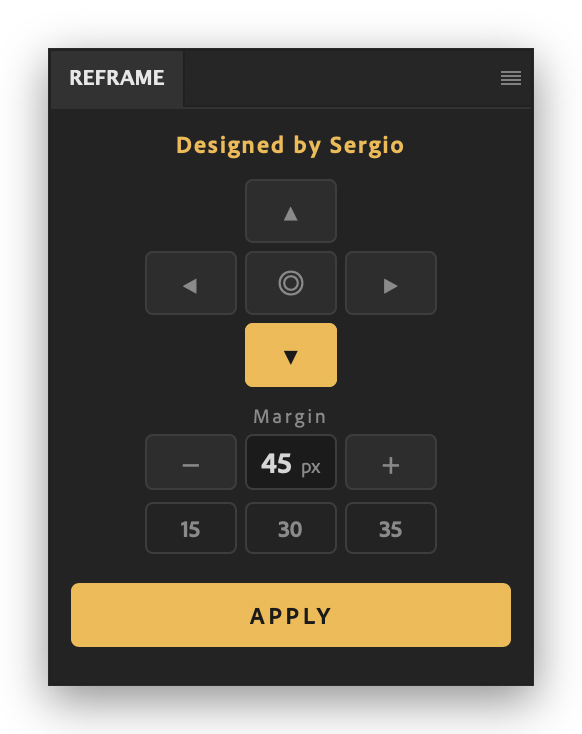
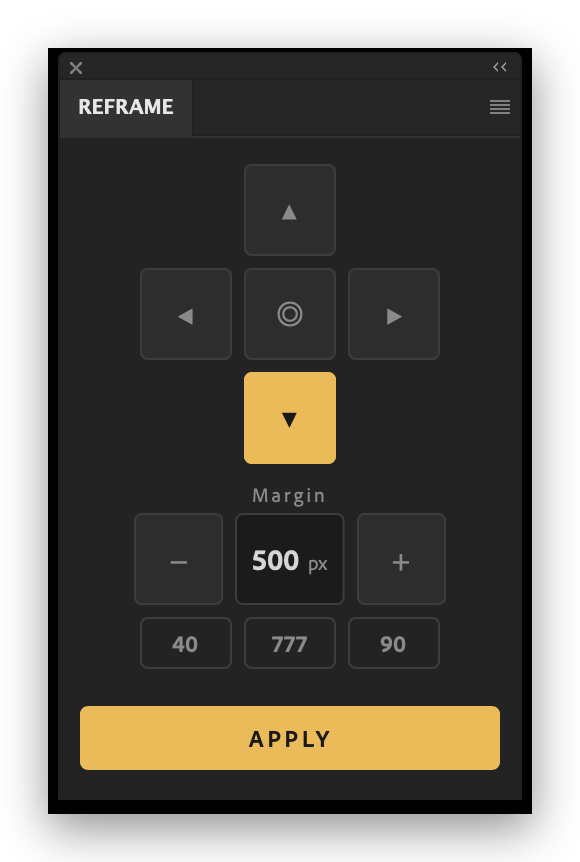
v2.4.0 — the reviewed build
- Dual engine: generated original ExtendScript via AdobeScriptAutomation
  (session-token file ref), native batchPlay fallback
- Fixed-size panel (min=max 230x330): no resize grabber, no scroll
  artifacts, constant geometry
- Stationary layout: Center mode reserves the margin block's space —
  controls never move between modes
- Offscreen input with centered live echo + blinking caret; margin
  clamped 0..99999 on every path (typing, paste, steppers)
- Success is silent; only errors speak (and stay)
- Theme switcher and on-panel signature removed per design review
- New screenshots

diff --git a/index.js b/index.js
@@ -25,6 +25,14 @@
      reorder or delete; persisted in localStorage
    - Tab ring: value field → presets → APPLY; Enter in the field jumps
      focus to APPLY so the next Enter applies
+   New in 2.3.x/2.4.0:
+   - dual engine: generated ExtendScript (the proven original) via
+     AdobeScriptAutomation, native batchPlay as automatic fallback
+   - fixed-size panel (min=max) — no host resize grabber artifacts
+   - stationary layout: Center mode reserves space, nothing teleports
+   - offscreen input with centered live echo + caret (UXP inputs are
+     C++ widgets — text-align is impossible on the real control)
+   - margin clamped 0..99999 on every path; silence on success
    New in 2.2.0:
    - APPLY label centered (the div conversion had lost the free centering)
    - presets are unique (dedupe on save/drop + self-heal stored state)

diff --git a/README.md b/README.md
@@ -8,7 +8,7 @@
 
 <br>
 
-![Version](https://img.shields.io/badge/version-2.3.0-f5b942?style=flat-square)
+![Version](https://img.shields.io/badge/version-2.4.0-f5b942?style=flat-square)
 ![Photoshop](https://img.shields.io/badge/Photoshop-2025%20%7C%202026-2d2d2d?style=flat-square)
 ![Platform](https://img.shields.io/badge/platform-UXP-2d2d2d?style=flat-square)
 ![License](https://img.shields.io/badge/license-All%20rights%20reserved-8a8a8a?style=flat-square)
@@ -17,14 +17,14 @@
 
 <table>
 <tr>
-<td align="center"><img src="screenshots/screen-3.png" width="260" alt="Center mode — minimal"></td>
-<td align="center"><img src="screenshots/screen-2.png" width="260" alt="Side mode with one preset"></td>
 <td align="center"><img src="screenshots/screen-1.png" width="260" alt="Side mode with three presets"></td>
+<td align="center"><img src="screenshots/screen-2.png" width="260" alt="Center mode"></td>
+<td align="center"><img src="screenshots/screen-3.png" width="260" alt="Side mode, clean"></td>
 </tr>
 <tr>
-<td align="center"><sub>◎ Center · the panel folds away</sub></td>
-<td align="center"><sub>One saved preset · centered</sub></td>
-<td align="center"><sub>Side mode · full preset grid</sub></td>
+<td align="center"><sub>Side mode · presets ready</sub></td>
+<td align="center"><sub>◎ Center · one click, nothing moves</sub></td>
+<td align="center"><sub>Side mode · clean</sub></td>
 </tr>
 </table>
 
@@ -40,10 +40,10 @@ Repositions the canvas around **"Path 1"** with a single click. The canvas size 
 
 | | |
 |---|---|
-| **D-pad** | Pick the side the margin is measured from (▲ ▼ ◀ ▶), or **◎ Center** — the Margin block folds away entirely |
-| **Value** | Shown dead-center as `45 px`. Click (or Tab) to type; **− / +** step by 5 |
+| **D-pad** | Pick the side the margin is measured from (▲ ▼ ◀ ▶), or **◎ Center**. The layout never shifts between modes — controls stay exactly where they are |
+| **Value** | Shown dead-center as `500 px`. Click (or Tab) to type — an amber caret blinks, every keystroke echoes centered. Clamped to 0–99999 on every path (typing, paste, − / +) |
 | **Presets** | 3 slots, empty by default. **Right-click the value** — or **drag it down** — to save. Click to load, right-click to move / delete, drag to reorder. Duplicates are impossible |
-| **APPLY** | Pinned to the bottom, always breathing. **Enter** applies from anywhere |
+| **APPLY** | Pinned to the bottom. **Enter** applies from anywhere. Success is silent — the canvas is the feedback |
 
 **Keyboard flow:** arrows pick the side → `Tab` lands in the field → type → `Enter` focuses APPLY → `Enter` applies. `C` = Center, `Esc` cancels an edit.
 
@@ -55,7 +55,10 @@ Developer options (UXP Developer Tool / system plugins folder) — see [INSTALL.
 
 ## Engineering notes
 
-The UI survives UXP's quirks by design: no native `<button>` (its internal layout truncates labels), no `flex-wrap`, no `gap`, no `calc()`, no stretched inputs — explicit flex rows on a single **3 × 46 px grid**, and an absolutely-positioned wrapper that keeps UXP's root scroller from reserving a scrollbar corner. Ported from the ExtendScript v1.1.0 original.
+- **Dual engine.** Apply generates the proven original ExtendScript core (pixel-forced rulers, path selection, non-destructive Crop) with your side/margin baked in and runs it through Photoshop's script automation; a native UXP `batchPlay` implementation kicks in automatically as fallback.
+- **UXP-safe UI, learned the hard way:** no native `<button>` (its internal layout truncates labels), no `flex-wrap`, no `gap`, no `calc()`. Everything sits on one **3 × 46 px grid**.
+- **UXP inputs are native C++ widgets** — `text-align` is impossible on the real control. The visible value is a styled display; an offscreen input captures keystrokes and echoes them centered, with a blinking caret.
+- **Fixed-size panel** (`minimumSize == maximumSize`) — no host resize grabber, no scrollbar artifacts, constant geometry in every mode.
 
 ## License
 